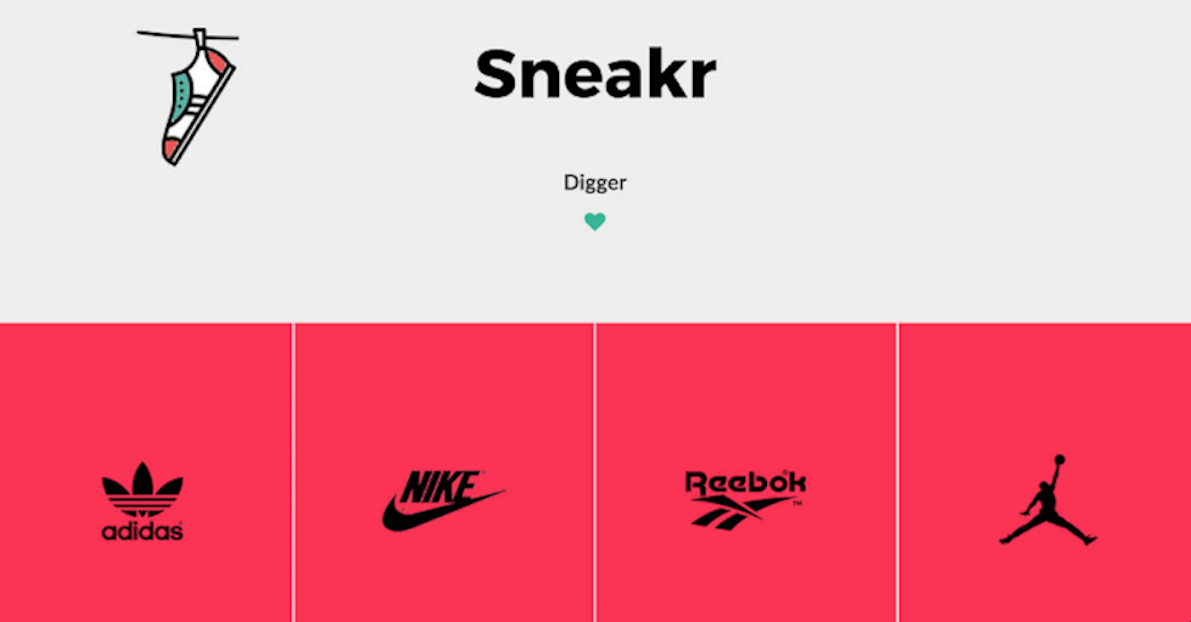
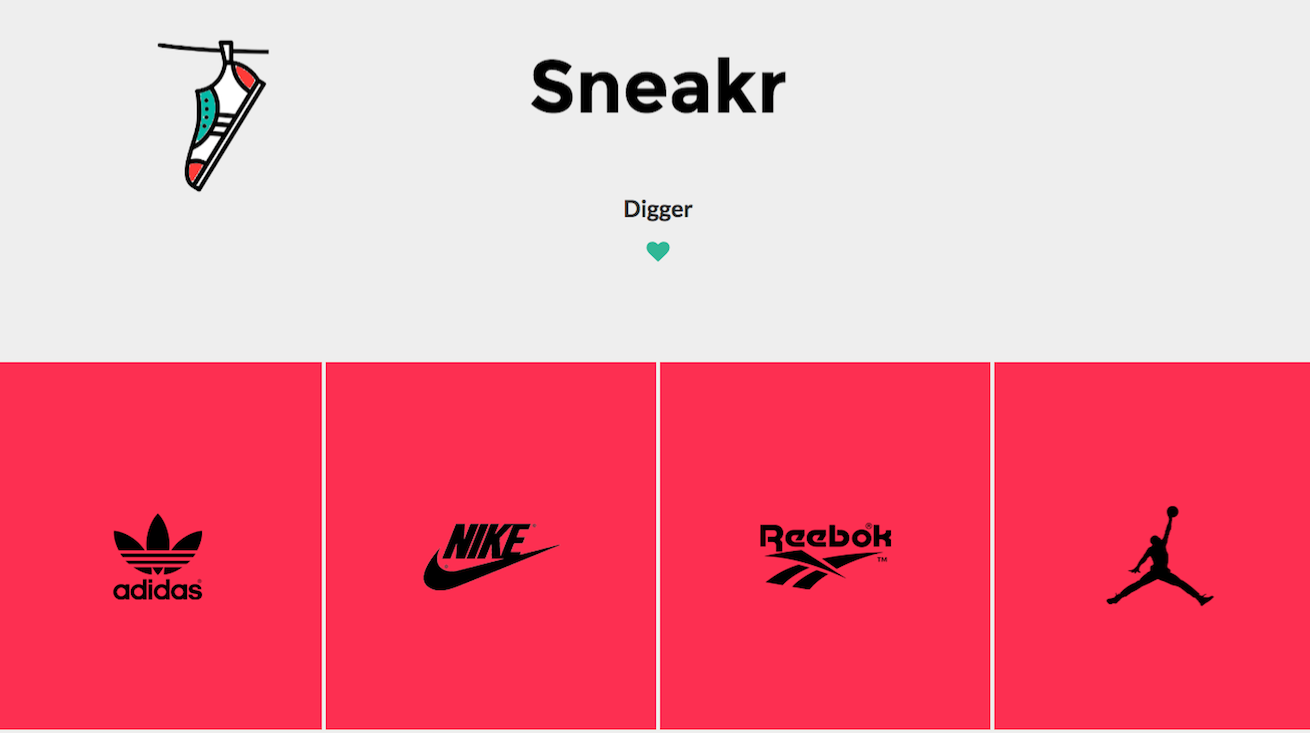
resize img press section

diff --git a/siteDemo.html b/siteDemo.html
@@ -226,7 +226,7 @@
       <div class="row">
       <div class="col-lg-12 col-md-12">
 
-        <ul class="press-logo list-inline">
+        <ul class="certifs-logo list-inline">
           <li class="col-lg-3 col-md-3 col-sm-3 col-xs-6"><a href="https://openclassrooms.com/course-certificates/3239689026" target="_blank"><img class="img-responsive" src="img/certifs/html.png"><p>Certificat "Créer votre site web en HTML5 et CSS3"</p></a></li>
     
           <li class="col-lg-3 col-md-3 col-sm-3 col-xs-6"><a href="https://openclassrooms.com/course-certificates/5771754531" target="_blank"><img class="img-responsive" src="img/certifs/integrer.png"><p>Certificat "Decouper et intégrer une maquette"</p></a></li>
@@ -251,15 +251,16 @@
       <div class="col-lg-12 col-md-12">
 
         <ul class="press-logo list-inline" id="press">
-          <li class="col-lg-3 col-md-3 col-sm-3 col-xs-6"><a href="https://www.lewagon.com/fr/blog/lewagon-demoday-8" target="_blank"><img class="img-responsive" src="img/press/sneakr.png"><p>Coder son application web en 10 jours c'est possible</p></a></li>
+          <li class="col-lg-3 col-md-3 col-sm-3 col-xs-6"><a href="https://www.lewagon.com/fr/blog/lewagon-demoday-8" target="_blank"><img style="height:180px" class="img-responsive" src="img/press/sneakr.png"><p>Coder son application web en 10 jours c'est possible</p></a></li>
+
     
-          <li class="col-lg-3 col-md-3 col-sm-3 col-xs-6"><a href="http://www.grazia.fr/article/textfugees-refugenius-la-technologie-au-service-des-migrants-809301" target="_blank"><img class="img-responsive" src="img/press/refuginius.png"><p>Textfugees, Refugenius... : la technologie au service des migrants</p></a><p>Developpement du "Linkedin des refugiés dans le cadre du hackaton Techfugees"</p></li>
+          <li class="col-lg-3 col-md-3 col-sm-3 col-xs-6"><a href="http://www.grazia.fr/article/textfugees-refugenius-la-technologie-au-service-des-migrants-809301" target="_blank"><img style="height:180px"class="img-responsive" src="img/press/refuginius.png"><p>Textfugees, Refugenius... : la technologie au service des migrants</p></a><p>Developpement du "Linkedin des refugiés" dans le cadre du hackaton Techfugees</p></li>
           
           
-          <li class="col-lg-3 col-md-3 col-sm-3 col-xs-6"><a href="http://www.bel7infos.eu/meet-up-culture-management-infos/" target="_blank"><img class="img-responsive" src="img/press/thinklab.png"><p>Meet Up Culture et Management</p></a><p>Intervenante dans le débat consacré à la musique digitale</p></li>
+          <li class="col-lg-3 col-md-3 col-sm-3 col-xs-6"><a href="http://www.bel7infos.eu/meet-up-culture-management-infos/" target="_blank"><img style="height:180px" class="img-responsive" src="img/press/thinklab.png"><p>Meet Up Culture et Management</p></a><a href="http://expressionculture.wix.com/thinklab#!katalina-et-clothilde/zoom/czx4/i1ama" target="_blank"><p>Intervenante dans le débat consacré à la musique digitale</p></a></li>
 
           
-          <li class="col-lg-3 col-md-3 col-sm-3 col-xs-6"><a href="https://www.facebook.com/believerecordings/photos/t.617651442/295885160504543/?type=3&theater" target="_blank"><img class="img-responsive" src="img/press/believe.png"><p>Musique Info Hebdo</p></a><p>Musique Info Hebdo "Une journée chez Believe" Mai 2012</p></li>
+          <li class="col-lg-3 col-md-3 col-sm-3 col-xs-6"><a href="https://www.facebook.com/believerecordings/photos/t.617651442/295885160504543/?type=3&theater" target="_blank"><img style="height:180px" class="img-responsive" src="img/press/believe.png"><p>Musique Info Hebdo</p></a><p>Musique Info Hebdo "Une journée chez Believe" Mai 2012</p></li>
           
         </ul>
       </div>

diff --git a/css/siteDemo.css b/css/siteDemo.css
@@ -107,6 +107,48 @@ p, h1 {
 }
 
 /*PRESS*/
+.certifs {
+  padding: 90px 0 90px;
+  text-align: center;
+}
+
+.certifs h1 {
+  font-size: 1.8em;
+  padding-bottom: 25px;
+  color: #FF3759;
+}
+
+.certifs .press-logo li img {
+  opacity: 0.5;
+  padding-bottom: 25px;
+}
+
+.certifs .press-logo li img {
+  background-color: blue;
+  opacity: 0.5;
+  padding-bottom: 25px;
+  width:250px;
+  height:180px;
+  max-width: 100%;
+}
+
+.certifs .press-logo li:hover img {
+  opacity: 1;
+}
+
+.certifs {
+  padding: 90px 0 90px;
+  text-align: center;
+}
+
+
+
+
+
+
+
+
+
 
 .press {
   padding: 90px 0 90px;
@@ -137,7 +179,10 @@ p, h1 {
   opacity: 1;
 }
 
-
+.sites {
+  padding: 90px 0 90px;
+  text-align: center;
+}
 
 
 
